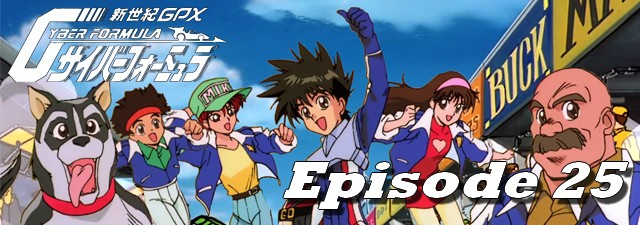
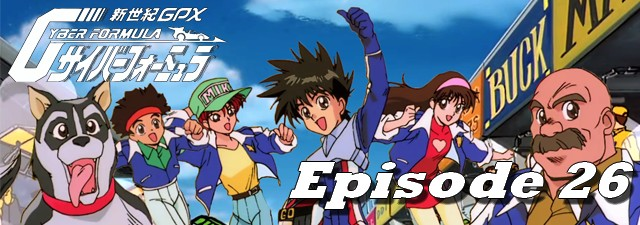
new release

Changed region(s): [[0.4375, 0.7156, 1.0, 0.9644]]

diff --git a/2016-01-31.html b/2016-01-31.html
@@ -1,0 +1,102 @@
+<!DOCTYPE html>
+<html lang="fr-FR">
+	<head>
+		<title>Future GPX Cyber Formula BD 26 vostfr | Nobluesky Fansub</title>
+		<meta charset="utf-8" />
+		<link rel="Shortcut Icon" type="image/x-icon" href="favicon.ico" />
+		<link href="fonts/fonts.css" rel="stylesheet" type="text/css" />
+		<link href="style.css" rel="stylesheet" type="text/css" media="screen" />
+		<link rel="stylesheet" href="menu.css" type="text/css" />
+		<script src="jquery.js" type="text/javascript"></script>
+		<script src="background-script.js" type="text/javascript"></script>
+	</head>
+<body>
+<div class="banner">
+	<a title="Nobluesky Fansub" href="index.html"> <img class="banner" alt="Nobluesky Fansub" title="Nobluesky Fansub" src="images/banner.png"/> </a>
+</div>
+<!-- end banner -->
+<div id="menu-wrapper">
+	<div id="menu">
+		<script type="text/javascript">
+		$( '#menu' ).load( 'menu.html' );
+		</script>
+		<noscript>Activez javascript pour voir le menu!</noscript>
+	</div>
+</div>
+<!-- end #menu -->
+<div id="page-wrapper">
+<div id="sidebar-wrapper">
+	<div id="sidebar">
+		<script type="text/javascript">
+		$( '#sidebar' ).load( 'sidebar.html' );
+		</script>
+	</div>
+	<!-- end #sidebar -->
+</div>
+	<div id="article">
+		<div id="content">
+			<div class="post">
+				<h1 class="title">Future GPX Cyber Formula BD 26 vostfr</h1>
+				<p class="meta"><span class="date">31 Janvier 2016</span><span class="posted">Posté par <a href="about.html#nobluesky">Nobluesky</a></span></p>
+				<div style="clear: both;">&nbsp;</div>
+				<div class="entry">
+					<img class="post-images" src="images/2016/news7.jpg" alt="" />
+					<p>Bonjour à tous,</p>
+					<p>Une finale de Cyber Formule cette fois, et une étape de franchie dans la série!</p>
+					<p>Je vous souhaite un bon épisode.</p>
+					<p>PS : Teekyuu Saison 6 en préparation ;)</p>
+					<p>Ja mata!</p>
+					<h3>Téléchargements et streaming</h3>
+					<p class="links dl"><a href="http://jheberg.net/captcha/fgpxcf-26-vostfr-bd/" class="button-dl">Jheberg</a></p>&nbsp; | &nbsp;
+					<p class="links dl"><a href="http://rutube.ru/video/77c2afd438480405d23af9ed82cc8fe3/" class="button-dl">Rutube</a></p>&nbsp; | &nbsp;
+					<p class="links dl"><a href="https://mega.nz/#!3Ad0SZbK!vxThhGXdn-752SmefT-5RkgQqim39xIgAIuY1Mp7700" class="button-dl">Mega</a></p>
+					<h3>Commentaires</h3>
+					<div id="disqus_thread"></div>
+					<script type="text/javascript">
+						/* * * CONFIGURATION VARIABLES: EDIT BEFORE PASTING INTO YOUR WEBPAGE * * */
+						var disqus_shortname = 'noblueskyfansub'; // required: replace example with your forum shortname
+
+						/* * * DON'T EDIT BELOW THIS LINE * * */
+						(function() {
+							var dsq = document.createElement('script'); dsq.type = 'text/javascript'; dsq.async = true;
+							dsq.src = '//' + disqus_shortname + '.disqus.com/embed.js';
+							(document.getElementsByTagName('head')[0] || document.getElementsByTagName('body')[0]).appendChild(dsq);
+						})();
+					</script>
+					<noscript>Activez javascript pour voir les commentaires.</noscript>
+					<a href="http://disqus.com" class="dsq-brlink">commentaires propulsés par <span class="logo-disqus">Disqus</span></a>
+				</div>
+			</div>
+			<div style="clear: both;">&nbsp;</div>
+		</div>
+		<!-- end #content -->
+		<div style="clear: both;">&nbsp;</div>
+	</div>
+</div>
+<!-- end #page -->
+<script type="text/javascript">
+$(window).scroll(function() {
+    if ($(this).scrollTop() < 1000) {
+        $("#footer").hide();
+    }
+    else {
+        $("#footer").show();
+    }
+});
+$(window).scroll(function() {
+  if ($(this).scrollTop() < 1000) {
+    $("footer").slideUp();
+      }
+  else {
+    $("footer").slideDown();
+      }
+});		
+</script>
+<div id="footer">
+	<script type="text/javascript">
+	$( '#footer' ).load( 'footer.html' );
+	</script>
+</div>
+<!-- end #footer -->
+</body>
+</html>

diff --git a/index.html b/index.html
@@ -35,7 +35,7 @@
 	<div class="slider-wrapper theme-default">
 		<div class="ribbon"></div>
 		<div id="slider" class="nivoSlider">
-			<a href="2016-01-25.html"><img src="images/img02.jpg" alt="" /></a><a href="2016-01-22.html"><img src="images/img01.jpg" alt="" /></a><img src="images/img03.jpg" alt="" />
+			<a href="2016-01-31.html"><img src="images/img01.jpg" alt="" /></a><a href="2016-01-25.html"><img src="images/img02.jpg" alt="" /></a><img src="images/img03.jpg" alt="" />
 		</div>
 	</div>
 <script type="text/javascript">
@@ -63,6 +63,19 @@
 				</div>
 			</div>
 			<div class="post">
+				<h1 class="title"><a href="2016-01-31.html">Future GPX Cyber Formula BD 26 vostfr</a></h1>
+				<p class="meta"><span class="date">31 Janvier 2015</span><span class="posted">Posté par <a href="about.html#nobluesky">Nobluesky</a></span></p>
+				<p><a href="http://nobluesub.com/2016-01-31.html#disqus_thread">Commentaires</a></p>
+				<div style="clear: both;">&nbsp;</div>
+				<div class="entry">
+					<img class="post-images" src="images/2016/news7.jpg" alt="" />
+					<p>Bonjour à tous,</p>
+					<p>Une finale de Cyber Formule cette fois, et une étape de franchie dans la série!</p>
+					<p>Je vous souhaite un bon épisode....</p>
+					<p class="links"><a href="2016-01-31.html" class="button">Lire la suite</a></p>
+				</div>
+			</div>
+			<div class="post">
 				<h1 class="title"><a href="2016-01-25.html">Teekyuu Saison 5 Ep 9 à 12 vostfr</a></h1>
 				<p class="meta"><span class="date">25 Janvier 2015</span><span class="posted">Posté par <a href="about.html#nobluesky">Nobluesky</a></span></p>
 				<p><a href="http://nobluesub.com/2016-01-25.html#disqus_thread">Commentaires</a></p>
@@ -76,7 +89,7 @@
 				</div>
 			</div>
 			<div class="post">
-				<h1 class="title"><a href="2016-01-22.html">Future GPX Cyber Formula 25 vostfr</a></h1>
+				<h1 class="title"><a href="2016-01-22.html">Future GPX Cyber Formula BD 25 vostfr</a></h1>
 				<p class="meta"><span class="date">22 Janvier 2015</span><span class="posted">Posté par <a href="about.html#nobluesky">Nobluesky</a></span></p>
 				<p><a href="http://nobluesub.com/2016-01-22.html#disqus_thread">Commentaires</a></p>
 				<div style="clear: both;">&nbsp;</div>
@@ -111,19 +124,6 @@
 					<p>Bonsoir tout le monde, c'est la suite! Comment, vous le saviez?!</p>
 					<p>Bon, et bien puisque c'est ainsi, vous n'avez plus qu'à regarder. C'est malin! Je vous souhaite une bonne soirée en compagnie de notre équipe...</p>
 					<p class="links"><a href="2016-01-12.html" class="button">Lire la suite</a></p>
-				</div>
-			</div>
-			<div class="post">
-				<h1 class="title"><a href="2016-01-06.html">Teekyuu Saison 5 Ep 1 à 4 vostfr</a></h1>
-				<p class="meta"><span class="date">6 Janvier 2015</span><span class="posted">Posté par <a href="about.html#nobluesky">Nobluesky</a></span></p>
-				<p><a href="http://nobluesub.com/2016-01-06.html#disqus_thread">Commentaires</a></p>
-				<div style="clear: both;">&nbsp;</div>
-				<div class="entry">
-					<img class="post-images" src="images/2016/news2.jpg" alt="" />
-					<p>Bonsoir,</p>
-					<p>Je vous présente Teekyuu, projet que j'ai décidé de reprendre à partir de la saison 5.</p>
-					<p>Pour ceux qui ne connaissent pas, c'est un animé court à haute teneur humoristique, et ça change radicalement de la Cyber Formule...</p>
-					<p class="links"><a href="2016-01-06.html" class="button">Lire la suite</a></p>
 				</div>
 			</div>
 			<div id="button-page-wrapper">

diff --git a/page2.html b/page2.html
@@ -31,7 +31,7 @@
 	<div class="slider-wrapper theme-default">
 		<div class="ribbon"></div>
 		<div id="slider" class="nivoSlider">
-			<a href="2016-01-25.html"><img src="images/img02.jpg" alt="" /></a><a href="2016-01-22.html"><img src="images/img01.jpg" alt="" /></a><img src="images/img03.jpg" alt="" />
+			<a href="2016-01-31.html"><img src="images/img01.jpg" alt="" /></a><a href="2016-01-25.html"><img src="images/img02.jpg" alt="" /></a><img src="images/img03.jpg" alt="" />
 		</div>
 	</div>
 <script type="text/javascript">
@@ -50,6 +50,19 @@
 </div>
 	<div id="feed">
 		<div id="content">
+			<div class="post">
+				<h1 class="title"><a href="2016-01-06.html">Teekyuu Saison 5 Ep 1 à 4 vostfr</a></h1>
+				<p class="meta"><span class="date">6 Janvier 2015</span><span class="posted">Posté par <a href="about.html#nobluesky">Nobluesky</a></span></p>
+				<p><a href="http://nobluesub.com/2016-01-06.html#disqus_thread">Commentaires</a></p>
+				<div style="clear: both;">&nbsp;</div>
+				<div class="entry">
+					<img class="post-images" src="images/2016/news2.jpg" alt="" />
+					<p>Bonsoir,</p>
+					<p>Je vous présente Teekyuu, projet que j'ai décidé de reprendre à partir de la saison 5.</p>
+					<p>Pour ceux qui ne connaissent pas, c'est un animé court à haute teneur humoristique, et ça change radicalement de la Cyber Formule...</p>
+					<p class="links"><a href="2016-01-06.html" class="button">Lire la suite</a></p>
+				</div>
+			</div>
 			<div class="post">
 				<h1 class="title"><a href="2016-01-05.html">Future GPX Cyber Formula BD 23 vostfr</a></h1>
 				<p class="meta"><span class="date">5 Janvier 2015</span><span class="posted">Posté par <a href="about.html#nobluesky">Nobluesky</a></span></p>
@@ -102,17 +115,6 @@
 					<p class="links"><a href="2015-12-13.html" class="button">Lire la suite</a></p>
 				</div>
 			</div>
-			<div class="post">
-				<h1 class="title"><a href="2015-12-05.html">Future GPX Cyber Formula BD 19 vostfr</a></h1>
-				<p class="meta"><span class="date">5 Décembre 2015</span><span class="posted">Posté par <a href="about.html#nobluesky">Nobluesky</a></span></p>
-				<p><a href="http://nobluesub.com/2015-12-05.html#disqus_thread">Commentaires</a></p>
-				<div style="clear: both;">&nbsp;</div>
-				<div class="entry">
-					<img class="post-images" src="images/2015/news20.jpg" alt="" />
-					<p>Salut la compagnie!</p>
-					<p>Vous n'y connaissez rien en mécanique? Pas grave, les mécanos de l'équipe Sugo sont les meilleurs à présent, et vous pouvez leur faire confiance pour...</p>
-					<p class="links"><a href="2015-12-05.html" class="button">Lire la suite</a></p>
-				</div>
 			</div>
 			<div id="button-page-wrapper">
 			<p class="links button-number"><a href="index.html" class="button-page">1</a></p>&nbsp;|&nbsp;<p class="links button-number"><a href="page2.html" class="button-page selected">2</a></p>&nbsp;|&nbsp;<p class="links button-number"><a href="archives.html" class="button-page">Archives</a></p>

diff --git a/stream/futuregpxcf26.html b/stream/futuregpxcf26.html
@@ -1,0 +1,31 @@
+<!DOCTYPE html>
+<html lang="fr">
+<head>
+	<title>Streaming Nobluesub | Lecture en cours</title>
+	<link rel="Shortcut Icon" type="image/x-icon" href="favicon.ico" />
+	<meta charset="UTF-8" />
+	<link rel="stylesheet" href="style.css"/>
+	<script src="jquery.js" type="text/javascript"></script>
+</head>
+
+<body>
+<div id="feed">
+	<a title="Nobluesky stream" href="index.html"> <img id="banner" alt="Nobluesky Stream" title="Nobluesky Stream | Accueil" src="images/banner.png"/> </a>
+		<p><a href="futuregpxcf.html">Retour à la liste des épisodes</a></p>
+			<video id="player" controls alt="video">
+				<source src="http://stream.nobluesub.com:17970/share/ty70bXF8y-tK0bnz/26.mp4" type="video/mp4">
+					<p>Désolé, votre navigateur est ancien et/ou ne supporte pas html5.</p>
+				</object>
+			</video>
+<p id="copy">Design par Nobluesky</p>
+</div>
+<!-- end feed -->
+<div id="sidebar">
+<script type="text/javascript">
+		$( '#sidebar' ).load( 'sidebar.html' );
+</script>
+<noscript>Activez javascript pour voir tout le contenu!</noscript>
+</div>
+<!-- end sidebar -->
+</body>
+</html>

diff --git a/future-gpx-cyber-formula.html b/future-gpx-cyber-formula.html
@@ -173,6 +173,11 @@
 					<p class="links dl"><a href="http://jheberg.net/captcha/fgpxcf-25-vostfr-bd-3/" class="button-dl">Jheberg</a></p>&nbsp; | &nbsp;
 					<p class="links dl"><a href="http://rutube.ru/video/ed996c84f8d1194405a113d0d60cb357/" class="button-dl">Rutube</a></p>&nbsp; | &nbsp;
 					<p class="links dl"><a href="https://mega.nz/#!fdERmbrK!CUcHqeFCgs0GXbESdpWnMputaBEm9kQjztbmvBavdPo" class="button-dl">Mega</a></p>
+					<br>
+					Episode 26 : 
+					<p class="links dl"><a href="http://jheberg.net/captcha/fgpxcf-26-vostfr-bd/" class="button-dl">Jheberg</a></p>&nbsp; | &nbsp;
+					<p class="links dl"><a href="http://rutube.ru/video/77c2afd438480405d23af9ed82cc8fe3/" class="button-dl">Rutube</a></p>&nbsp; | &nbsp;
+					<p class="links dl"><a href="https://mega.nz/#!3Ad0SZbK!vxThhGXdn-752SmefT-5RkgQqim39xIgAIuY1Mp7700" class="button-dl">Mega</a></p>
 					
 					<h4>Version SD (640x480) non remasterisée (abandonnée)</h4>
 					Episode 01 : 

diff --git a/archives.html b/archives.html
@@ -45,6 +45,7 @@
 					<div>
 					 <!-- here comes spoiler content --> 
 					<div style="clear: both;">&nbsp;</div>
+					<p><a href="2015-12-05.html" target="_blank" >Future GPX Cyber Formula BD 19 vostfr</a></p>
 					<p><a href="2015-11-30.html" target="_blank" >Future GPX Cyber Formula BD 18 vostfr</a></p>
 					<p><a href="2015-11-24.html" target="_blank" >Future GPX Cyber Formula BD 17 vostfr</a></p>
 					<p><a href="2015-11-15.html" target="_blank" >Future GPX Cyber Formula BD 16 vostfr</a></p>

diff --git a/sidebar.html b/sidebar.html
@@ -29,9 +29,9 @@
 		<li>
 			<h2>Avancements</h2>
 			<ul>
-				<li>Future GPX Cyber Formula BD 26 : 80%
+				<li>Future GPX Cyber Formula BD 26 : 100%
 					<div class="progress-bar blue stripes" title="Progression" >
-					<span style="width: 80%"></span>
+					<span style="width: 100%"></span>
 					</div>
 				</li>
 				<li>Teekyuu 6 Ep 1 à 4 : 10%

diff --git a/stream/futuregpxcf.html b/stream/futuregpxcf.html
@@ -37,6 +37,7 @@
 	<p><a href="futuregpxcf23.html">Episode 23</a></p>
 	<p><a href="futuregpxcf24.html">Episode 24</a></p>
 	<p><a href="futuregpxcf25.html">Episode 25</a></p>
+	<p><a href="futuregpxcf26.html">Episode 26</a></p>
 	<br>
 	<br>
 <p id="copy">Design par Nobluesky</p>
